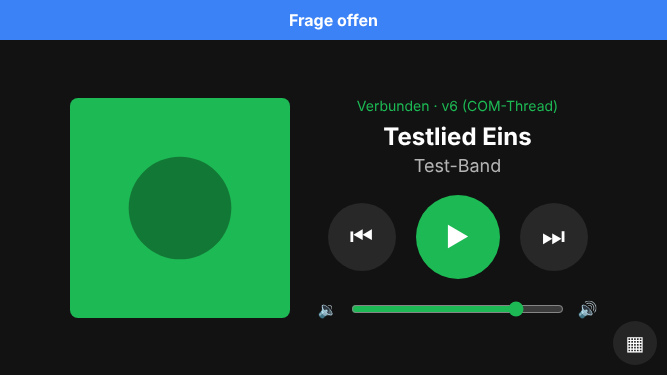
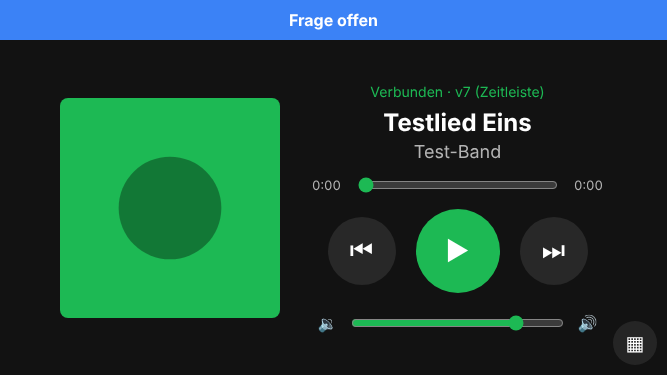
Zeitleiste mit Laufzeit und Sprung im Lied
Claude-Session: https://claude.ai/code/session_01S4HE7ySj582LLWDPPUyWDa

diff --git a/index.html b/index.html
@@ -23,7 +23,11 @@
            object-fit: cover; display: none; flex: none; }
   #titel { font-size: 24px; font-weight: bold; max-width: 340px; }
   #kuenstler { font-size: 18px; color: #b3b3b3; margin-top: 4px; min-height: 22px; }
-  .tasten { display: flex; gap: 20px; margin-top: 18px; align-items: center; }
+  #zeitreihe { display: none; align-items: center; gap: 10px; margin-top: 12px; width: 300px;
+               font-size: 13px; color: #b3b3b3; }
+  #zeitreihe span { width: 38px; font-variant-numeric: tabular-nums; }
+  #zeit { flex: 1; min-width: 0; accent-color: #1db954; }
+  .tasten { display: flex; gap: 20px; margin-top: 14px; align-items: center; }
   button { width: 68px; height: 68px; border-radius: 50%; border: none;
            background: #282828; color: #fff; font-size: 26px; }
   button:active { background: #1db954; }
@@ -75,6 +79,11 @@
       <div id="status">Verbinde ...</div>
       <div id="titel">-</div>
       <div id="kuenstler"></div>
+      <div id="zeitreihe">
+        <span id="pos">0:00</span>
+        <input id="zeit" type="range" min="0" max="1" step="1" value="0">
+        <span id="dauer">0:00</span>
+      </div>
       <div class="tasten">
         <button id="zurueck" onclick="senden('zurueck')">&#9198;</button>
         <button id="play" onclick="senden('playpause')">&#9654;</button>
@@ -102,6 +111,8 @@
   var ws;
   var letzteEingabe = 0;
   var letztesSenden = 0;
+  var basisPos = 0, basisZeit = 0, liedDauer = 0, laeuft = false;
+  var suchenBis = 0, zieht = false;
   var scStand = "";
   var letzteShortcutNr = null;
   var hinweisTimer;
@@ -141,6 +152,7 @@
       }
 
       extrasZeigen(d);
+      zeitUebernehmen(d);
 
       var c = d.claude || {};
       var banner = el("claude");
@@ -198,6 +210,32 @@
     letzteShortcutNr = sc.nr;
   }
 
+  function format(sekunden) {
+    sekunden = Math.max(0, Math.floor(sekunden));
+    var s = sekunden % 60;
+    return Math.floor(sekunden / 60) + ":" + (s < 10 ? "0" : "") + s;
+  }
+
+  function zeitUebernehmen(d) {
+    liedDauer = d.dauer || 0;
+    laeuft = !!d.spielt;
+    el("zeitreihe").style.display = liedDauer > 0 ? "flex" : "none";
+    if (Date.now() < suchenBis) return;  // eigene Eingabe nicht sofort ueberschreiben
+    basisPos = d.position || 0;
+    basisZeit = Date.now();
+  }
+
+  function zeitAnzeigen() {
+    if (liedDauer <= 0 || zieht) return;
+    var pos = basisPos + (laeuft ? (Date.now() - basisZeit) / 1000 : 0);
+    pos = Math.min(pos, liedDauer);
+    var regler = el("zeit");
+    regler.max = Math.floor(liedDauer);
+    regler.value = Math.floor(pos);
+    el("pos").textContent = format(pos);
+    el("dauer").textContent = format(liedDauer);
+  }
+
   function hinweisZeigen(text, fehler) {
     var h = el("hinweis");
     h.textContent = text;
@@ -224,6 +262,19 @@
     if (ws && ws.readyState === 1) ws.send(befehl);
   }
 
+  // Zeitleiste: beim Ziehen nur die Anzeige mitfuehren, beim Loslassen springen
+  el("zeit").addEventListener("input", function () {
+    zieht = true;
+    el("pos").textContent = format(this.value);
+  });
+  el("zeit").addEventListener("change", function () {
+    zieht = false;
+    basisPos = Number(this.value);
+    basisZeit = Date.now();
+    suchenBis = Date.now() + 1500;  // Spotify meldet die neue Position erst etwas spaeter
+    senden("suche:" + this.value);
+  });
+
   el("laut").addEventListener("input", function () {
     letzteEingabe = Date.now();
     if (letzteEingabe - letztesSenden > 100) {  // nicht bei jedem Pixel senden
@@ -239,6 +290,7 @@
   try { if (localStorage.getItem("phonebox-ansicht") === "extras") ansichtWechseln(); } catch (e) {}
   uhrAktualisieren();
   setInterval(uhrAktualisieren, 1000);
+  setInterval(zeitAnzeigen, 250);
   verbinden();
 </script>
 </body>

diff --git a/tests/ui.test.js b/tests/ui.test.js
@@ -34,6 +34,22 @@ const wait = (ms) => new Promise((r) => setTimeout(r, ms));
     await page.waitForFunction(() => document.getElementById('titel').textContent === 'Testlied Eins');
     ok('Zurueck wechselt den Titel');
 
+    // Zeitleiste: laeuft von selbst weiter und springt auf Wunsch
+    await page.waitForFunction(() => document.getElementById('dauer').textContent === '3:20');
+    const pos1 = Number(await page.inputValue('#zeit'));
+    await wait(2200);
+    const pos2 = Number(await page.inputValue('#zeit'));
+    assert.ok(pos2 > pos1, `Zeitleiste laeuft nicht (${pos1} -> ${pos2})`);
+    ok('Zeitleiste zeigt Laufzeit und laeuft weiter');
+    await page.fill('#zeit', '120');
+    await page.dispatchEvent('#zeit', 'change');
+    await wait(1800);
+    await page.reload();
+    await page.waitForFunction(() => Number(document.getElementById('zeit').value) >= 120);
+    const gesprungen = Number(await page.inputValue('#zeit'));
+    assert.ok(gesprungen >= 120 && gesprungen < 130, 'Sprung nicht uebernommen: ' + gesprungen);
+    ok('Sprung in der Zeitleiste klappt (auf ' + gesprungen + ' s)');
+
     const vorher = await page.innerHTML('#play');
     await page.click('#play');
     await page.waitForFunction((v) => document.getElementById('play').innerHTML !== v, vorher);

diff --git a/medien.py b/medien.py
@@ -6,6 +6,8 @@ Oberflaeche auch ohne Windows und Spotify testen lassen (PHONEBOX_TEST=1).
 """
 import asyncio
 import hashlib
+import time
+from datetime import datetime, timezone
 from concurrent.futures import ThreadPoolExecutor
 
 from protokoll import log
@@ -26,6 +28,18 @@ class TestMedien:
         self.nr = 0
         self.spielt = True
         self.laut = 50
+        self.dauer = 200.0
+        self._pos_basis = 0.0
+        self._pos_zeit = time.monotonic()
+
+    def _pos(self):
+        if not self.spielt:
+            return self._pos_basis
+        return min(self.dauer, self._pos_basis + time.monotonic() - self._pos_zeit)
+
+    def _pos_setzen(self, sekunden):
+        self._pos_basis = max(0.0, min(self.dauer, sekunden))
+        self._pos_zeit = time.monotonic()
 
     async def status(self):
         titel, kuenstler, _ = self.LIEDER[self.nr]
@@ -35,17 +49,24 @@ class TestMedien:
             "kuenstler": kuenstler,
             "cover": f"t{self.nr}",
             "laut": self.laut,
+            "dauer": self.dauer,
+            "position": round(self._pos(), 1),
         }
 
     async def befehl(self, befehl: str):
         if befehl == "playpause":
+            self._pos_setzen(self._pos())  # Stand festhalten, dann umschalten
             self.spielt = not self.spielt
         elif befehl == "weiter":
             self.nr = (self.nr + 1) % len(self.LIEDER)
+            self._pos_setzen(0)
         elif befehl == "zurueck":
             self.nr = (self.nr - 1) % len(self.LIEDER)
+            self._pos_setzen(0)
         elif befehl.startswith("laut:"):
             self.laut = _prozent(befehl)
+        elif befehl.startswith("suche:"):
+            self._pos_setzen(_sekunden(befehl))
 
     async def cover(self):
         farbe = self.LIEDER[self.nr][2]
@@ -101,6 +122,7 @@ class WindowsMedien:
             }
         infos = await sitzung.try_get_media_properties_async()
         spielt = sitzung.get_playback_info().playback_status == self._Status.PLAYING
+        dauer, position = self._zeitleiste(sitzung, spielt, (infos.title, infos.artist))
 
         schluessel = (infos.title, infos.artist)
         if schluessel != self._cover_fuer:
@@ -131,7 +153,32 @@ class WindowsMedien:
             "kuenstler": infos.artist,
             "cover": self._cover_id,
             "laut": laut,
+            "dauer": dauer,
+            "position": position,
         }
+
+    def _zeitleiste(self, sitzung, spielt, schluessel):
+        """Laenge und aktuelle Position des Lieds in Sekunden (Position wird hochgerechnet)."""
+        try:
+            tl = sitzung.get_timeline_properties()
+            dauer = (tl.end_time - tl.start_time).total_seconds()
+            position = (tl.position - tl.start_time).total_seconds()
+            if spielt:
+                stand = tl.last_updated_time
+                if stand.tzinfo is None:
+                    stand = stand.replace(tzinfo=timezone.utc)
+                position += max(0.0, (datetime.now(timezone.utc) - stand).total_seconds())
+            if schluessel != getattr(self, "_tl_gemeldet", None):
+                self._tl_gemeldet = schluessel
+                log(f"Zeitleiste: Dauer {dauer:.0f} s, Position {position:.0f} s")
+            if dauer <= 0:
+                return 0.0, 0.0
+            return round(dauer, 1), round(max(0.0, min(position, dauer)), 1)
+        except Exception as fehler:
+            if not getattr(self, "_tl_fehler", False):
+                self._tl_fehler = True
+                log("Zeitleiste nicht verfuegbar:", repr(fehler))
+            return 0.0, 0.0
 
     async def befehl(self, befehl: str):
         if befehl.startswith("laut:"):
@@ -142,7 +189,10 @@ class WindowsMedien:
         sitzung = await self._sitzung()
         if sitzung is None:
             return
-        if befehl == "playpause":
+        if befehl.startswith("suche:"):
+            # Windows rechnet in 100-Nanosekunden-Schritten
+            await sitzung.try_change_playback_position_async(int(_sekunden(befehl) * 10_000_000))
+        elif befehl == "playpause":
             await sitzung.try_toggle_play_pause_async()
         elif befehl == "weiter":
             await sitzung.try_skip_next_async()
@@ -218,6 +268,13 @@ class WindowsMedien:
         endpunkt = self._endpunkt()
         if endpunkt is not None:
             endpunkt.SetMasterVolumeLevelScalar(prozent / 100, None)
+
+
+def _sekunden(befehl: str) -> float:
+    try:
+        return max(0.0, float(befehl.split(":", 1)[1]))
+    except ValueError:
+        return 0.0
 
 
 def _prozent(befehl: str) -> int:

diff --git a/server.py b/server.py
@@ -19,7 +19,7 @@ from protokoll import log
 
 ORDNER = Path(__file__).parent
 TEST = os.environ.get("PHONEBOX_TEST") == "1"  # Fake-Daten statt Windows/Spotify
-VERSION = "v6 (COM-Thread)"
+VERSION = "v7 (Zeitleiste)"
 PORT = int(os.environ.get("PHONEBOX_PORT", "8000"))
 
 medien = medien_modul.erstellen(TEST)
@@ -75,7 +75,7 @@ async def aktualisieren():
         neu = await asyncio.wait_for(medien.status(), timeout=5)  # haengt nie ewig
     except Exception as fehler:
         neu = {"spielt": False, "titel": "Fehler: " + (str(fehler) or type(fehler).__name__),
-               "kuenstler": "", "cover": "", "laut": None}
+               "kuenstler": "", "cover": "", "laut": None, "dauer": 0, "position": 0}
     system = {"cpu": round(psutil.cpu_percent()), "ram": round(psutil.virtual_memory().percent)}
     geaendert = shortcuts_neu_laden()
     if neu != zustand["medien"] or system != zustand["system"] or geaendert:
